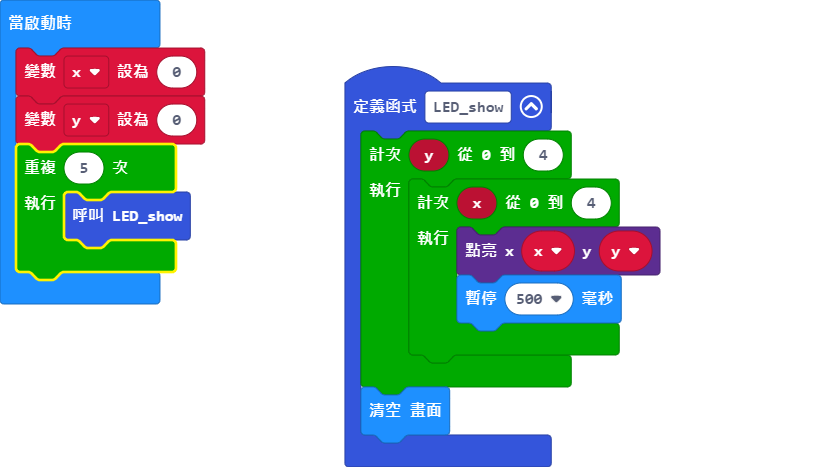
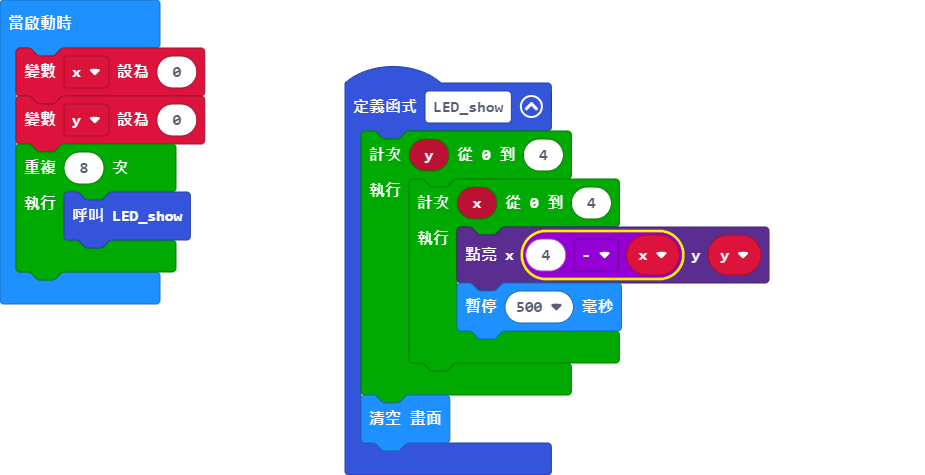
x顛倒

Changed region(s): [[0.3676, 0.1199, 0.8578, 1.0], [0.0, 0.0, 0.2757, 0.6595]]

diff --git a/main.ts b/main.ts
@@ -1,7 +1,7 @@
 function LED_show () {
     for (let y = 0; y <= 4; y++) {
         for (let x = 0; x <= 4; x++) {
-            led.plot(x, y)
+            led.plot(4 - x, y)
             basic.pause(500)
         }
     }
@@ -9,6 +9,6 @@ function LED_show () {
 }
 let x = 0
 let y = 0
-for (let index = 0; index < 5; index++) {
+for (let index = 0; index < 8; index++) {
     LED_show()
 }
